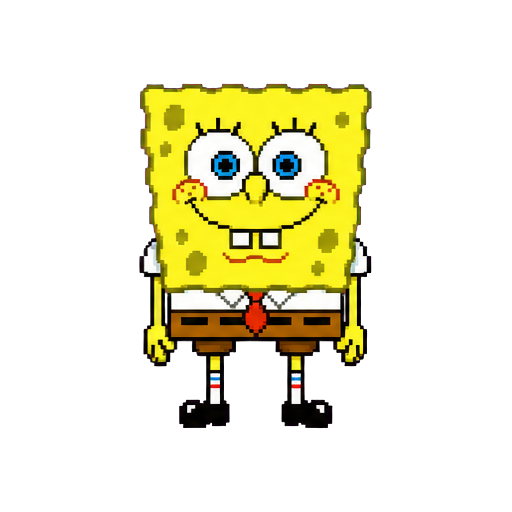
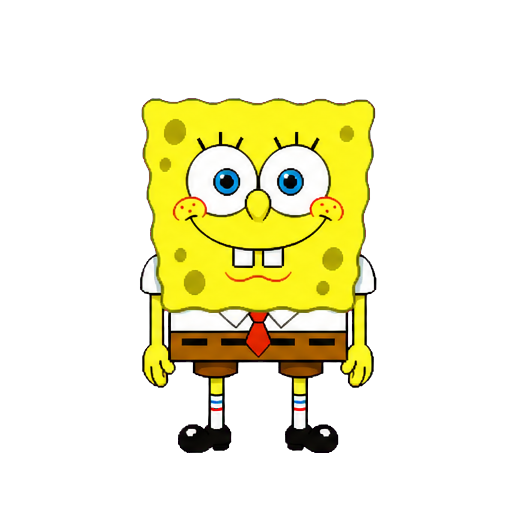
Replace pixel SpongeBob with cartoon sprites

Changed region(s): [[0.25, 0.1562, 0.75, 0.9062]]

diff --git a/Sources/OceanPet/Pet/PetScene.swift b/Sources/OceanPet/Pet/PetScene.swift
@@ -349,7 +349,8 @@ public final class PetScene: SKScene {
             in: cellSize,
             center: config.leftEye,
             direction: direction,
-            config: config
+            config: config,
+            interpolation: pixelArt ? .none : .high
         )
         moveOriginalPupil(
             source: source,
@@ -357,7 +358,8 @@ public final class PetScene: SKScene {
             in: cellSize,
             center: config.rightEye,
             direction: direction,
-            config: config
+            config: config,
+            interpolation: pixelArt ? .none : .high
         )
         composed.unlockFocus()
 
@@ -373,7 +375,8 @@ public final class PetScene: SKScene {
         in cellSize: CGSize,
         center: PetPoint,
         direction: GazeDirection,
-        config: EyeTrackingConfig
+        config: EyeTrackingConfig,
+        interpolation: NSImageInterpolation
     ) {
         let eyeCenter = CGPoint(x: center.x * cellSize.width, y: center.y * cellSize.height)
         let clearSize = CGSize(
@@ -401,7 +404,7 @@ public final class PetScene: SKScene {
             operation: .copy,
             fraction: 1,
             respectFlipped: false,
-            hints: [.interpolation: NSImageInterpolation.none.rawValue]
+            hints: [.interpolation: interpolation.rawValue]
         )
     }
 

diff --git a/Tests/OceanPetTests/ManifestTests.swift b/Tests/OceanPetTests/ManifestTests.swift
@@ -22,6 +22,7 @@ final class ManifestTests: XCTestCase {
         let patrick = store.characters.first { $0.id == "patrick-pixel" }
         let squidward = store.characters.first { $0.id == "squidward-cartoon" }
         XCTAssertEqual(spongeBob?.manifest.conversationName, "海绵宝宝")
+        XCTAssertEqual(spongeBob?.manifest.displayName, "卡通海绵宝宝")
         XCTAssertEqual(spongeBob?.manifest.effectiveWakeWords, ["海绵宝宝", "海绵宝"])
         XCTAssertEqual(patrick?.manifest.conversationName, "派大星")
         XCTAssertEqual(patrick?.manifest.effectiveWakeWords, ["派大星"])
@@ -35,7 +36,7 @@ final class ManifestTests: XCTestCase {
                 && $0.manifest.frames(for: .walkRight) == [6, 7]
                 && $0.manifest.walkFrameDuration == 0.30
         })
-        XCTAssertEqual(spongeBob?.manifest.usesPixelArtFiltering, true)
+        XCTAssertEqual(spongeBob?.manifest.usesPixelArtFiltering, false)
         XCTAssertEqual(patrick?.manifest.usesPixelArtFiltering, false)
         XCTAssertEqual(squidward?.manifest.usesPixelArtFiltering, false)
 

diff --git a/Assets/IMAGEGEN_PROMPT.md b/Assets/IMAGEGEN_PROMPT.md
@@ -1,4 +1,4 @@
-# OceanPet pixel sprite prompts
+# OceanPet character sprite prompts
 
 Generated with the built-in image generation tool, then converted from a flat
 chroma-key background to an alpha PNG with the imagegen skill helper.
@@ -13,6 +13,35 @@ Scene/backdrop: perfectly flat solid #ff00ff chroma-key background for backgroun
 Style/medium: crisp hand-authored 16-bit pixel art, chunky pixels, limited palette, readable at 128 px, no antialiasing, no blur.
 Composition/framing: each pose centered in its own equal cell, feet aligned to the same baseline, full body visible with generous padding, nothing crosses cell boundaries.
 Constraints: recognizable yellow rectangular sponge character with large blue eyes, buck teeth, white shirt, red tie, brown square shorts, striped socks, black shoes; exactly one character per cell; no props; no extra objects; no text; no labels; no watermark. Background must be one uniform #ff00ff with no shadows, gradients, texture, reflections, floor plane, or lighting variation. Do not use #ff00ff anywhere in the character. No cast shadow, no contact shadow, no reflection.
+```
+
+## SpongeBob classic 2D cartoon replacement
+
+Generated with the built-in image generation tool using the previous sprite sheet
+as the pose/layout reference, then converted from magenta chroma key to alpha.
+
+```text
+Use case: style-transfer
+Asset type: desktop-pet sprite sheet
+Input image: Image 1 is the edit target and defines the character, clothing, eight poses, proportions, and exact 4-by-2 layout.
+Primary request: Redraw only the character rendering from pixel art into a polished, smooth, high-resolution 2D cartoon. Keep the same character design and the same eight poses in exactly the same order.
+Style/medium: clean hand-drawn cel animation, smooth antialiased dark outlines, flat saturated colors, restrained cel shading, no pixel blocks.
+Composition: exactly four equal columns and two equal rows. Top row: idle smile, blink, talking, joyful. Bottom row: walk left, walk right, confused, sleepy. Exactly one complete full-body character centered inside each cell, consistent scale and baseline, generous padding, no part crossing a cell boundary.
+Invariants: yellow rectangular porous sponge body; large round blue eyes; eyelashes; long nose; two buck teeth; white shirt; red tie; brown shorts; striped socks; black shoes. Keep all limbs connected and fully visible. Keep the front-facing eye locations consistent.
+Background: perfectly flat uniform solid #FF00FF chroma-key background, with no gradient, texture, shadow, reflection, floor, border, or grid. Do not use #FF00FF in the character.
+Constraints: no text, no watermark, no extra characters or props, no pixel art, no jagged edges, no 3D, no cropped feet, no detached or duplicated limbs, no distorted eyes, no magenta halo.
+```
+
+### SpongeBob opposite walk phase
+
+```text
+Use case: precise-object-edit
+Asset type: two-frame desktop-pet walking animation refinement
+Input image: Image 1 is the edit target. It contains exactly two equal side-by-side cells: left-facing walk in the left cell and right-facing walk in the right cell.
+Primary request: create the opposite gait phase in both cells. Change only the walking limb positions: swap which leg is reaching forward and which leg is trailing, and swing the arms naturally in the opposite phase. The character in the left cell must still face and travel left; the character in the right cell must still face and travel right.
+Invariants: preserve the exact same smooth 2D cartoon character identity, face, body, eye direction, yellow sponge shape, pores, outfit, proportions, palette, line weight, scale, cell placement, and #FF00FF background. Keep each body as one connected full-body drawing. Keep both complete shoes, legs, arms, and hands visible.
+Composition: exactly two equal cells in one row, one complete centered character per cell, identical baseline and padding to Image 1, nothing crossing the midpoint or outer edge.
+Constraints: background remains perfectly flat uniform solid #FF00FF; no gradients, shadows, floor, grid line, text, watermark, extra character, extra limb, detached body part, crop, pixel art, 3D, or magenta halo.
 ```
 
 ## Patrick Star
